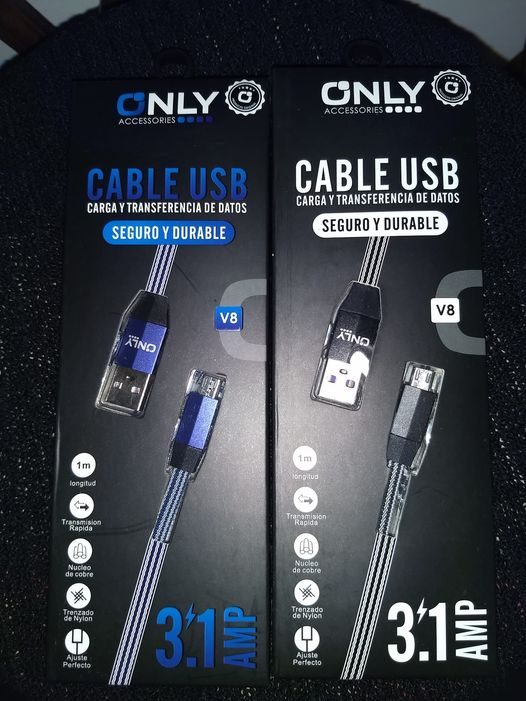
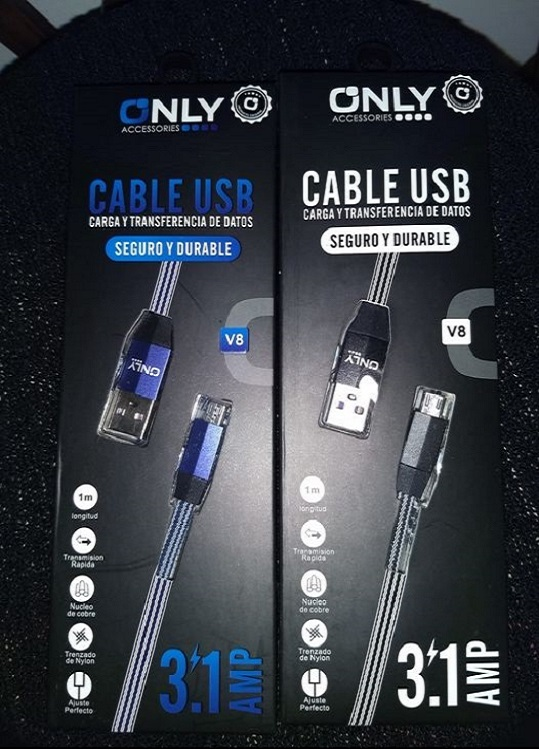
imagen

diff --git a/frontend/vistas/modulos/destacados.php b/frontend/vistas/modulos/destacados.php
@@ -756,7 +756,7 @@ BREADCRUMB VISITAS
 			<div class="col-xs-12 col-sm-12 col-md-6">
 				<div class="col-sm-12" style="height:100%" >
 					<a href=" <?php echo $url ?>cables">
-						<img src="<?php echo  $servidor; ?>vistas/img/productos/aaa.png" alt="Random Name" width="100%" height="100%" >
+						<img src="<?php echo  $servidor; ?>vistas/img/productos/12.jpg" alt="Random Name" width="105%" height="100%" >
 					</a>
 				</div>
 			</div>
